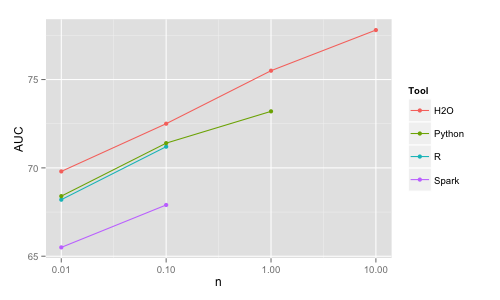
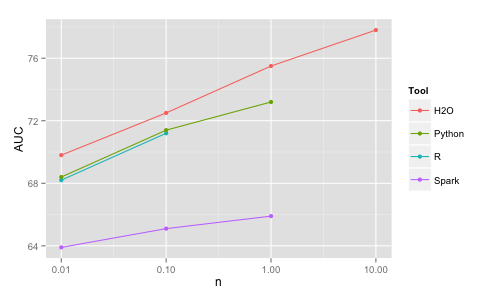
doc

diff --git a/README.md b/README.md
@@ -164,9 +164,9 @@ H2O     | 10K  |      15       |   2      | 69.8
         | 100K |      150      |   4      | 72.5
         | 1M   |      600      |    5     | 75.5
         | 10M  |     4000      |   25     | 77.8
-Spark   | 10K  |      150      |   10     | 65.5
-        | 100K |      1000     |   30     | 67.9
-        | 1M   |     crash     |          |
+Spark   | 10K  |      50       |   10     | 63.9
+        | 100K |      300      |   30     | 65.1
+        | 1M   |  crash/2000   |          | 65.9
 
 ![plot-time](2-rf/x-plot-time.png)
 ![plot-auc](2-rf/x-plot-auc.png)
@@ -176,7 +176,10 @@ It cannot cope by default with a large number of categories, therefore the data 
 to be one-hot encoded. The implementation uses 1 processor core, but with 2 lines of extra code
 it is easy to build
 the trees in parallel using all the cores and combine them at the end. However, it runs out
-of memory already for *n* = 1M.
+of memory already for *n* = 1M. I have to emphasize this has nothing to do with R (and I still stand by
+arguing R is a better data science platform than Python esp. when it comes to data munging and
+visualization), it is just this
+particular (C and Fortran) RF implementation used by the randomForest package that is inefficient.
 
 The [Python](2-rf/2.py) (scikit-learn) implementation is faster, more memory efficient and uses all the cores.
 Variables needed to be one-hot encoded (which is more involved than for R) 
@@ -185,21 +188,19 @@ with 250GB of memory (and 140GB free for RF after transforming all the data) the
 runs out of memory and crashes for this larger size. The algo 
 [finished successfully](https://github.com/szilard/benchm-ml/issues/1) 
 though when run on the larger box with simple integer encoding (which
-for some datasets/cases might be a good approximation/choice).
+for some datasets/cases might be actually a good approximation/choice).
 
 The [H2O](2-rf/4-h2o.R) implementation is fast, memory efficient and uses all cores. It deals
-with categorical variables automatically. It is also more accurate than R/Python.
-I think the reason for the latter is dealing properly with the categorical variables, i.e. internally in the algo
-rather than working from a previously 1-hot encoded dataset where the link between the dummies 
-belonging to the same original variable is lost. (The R package also deals properly with categorical variables if
-the number of categories is small, but not in our case.) 
+with categorical variables automatically. It is also more accurate than R/Python, which may be because
+of dealing properly with the categorical variables, i.e. internally in the algo
+rather than working from a previously 1-hot encoded dataset (where the link between the dummies 
+belonging to the same original variable is lost).
 
 [Spark](2-rf/5b-spark.txt) (MLlib) implementation is slow, provides the lowest accuracy and 
 it [crashes](2-rf/5c-spark-crash.txt) already at *n* = 1M disappointingly
-(for a "big data" system).  Even when the machine had 250GB of RAM Spark crashed for *n* = 1M
-and 500 trees, while it could finish for a small (and for any practical use pointless) number of trees, 
-for example I succeeded to train a random forest model e.g. with 10 trees for *n* = 1M and e.g. with 1 tree for
-*n* = 10M (although in these cases Spark was still very slow).
+(for a "big data" system). With 250G of RAM it finishes for *n* = 1M, but runs out of memory for *n* = 10M.
+It is possible though to train random forests with a small (and for any practical use pointless) number of trees
+(although in these cases Spark was still very slow).
 Also, reading the data is more than one line of code and Spark does not provide a one-hot encoder
 for the categorical data (therefore I used R for that). I tried to provide the categorical
 variables encoded simply as integers and passing the `categoricalFeaturesInfo` parameter, but that made
